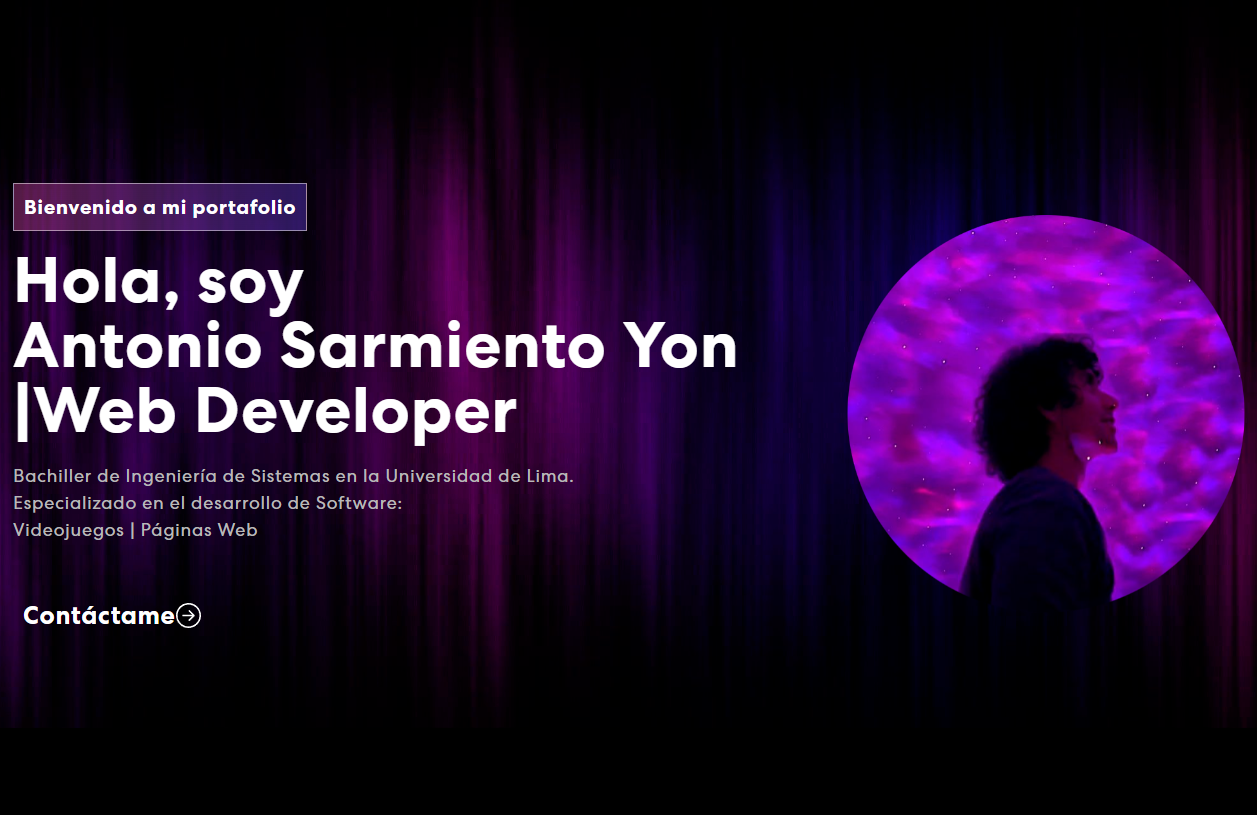
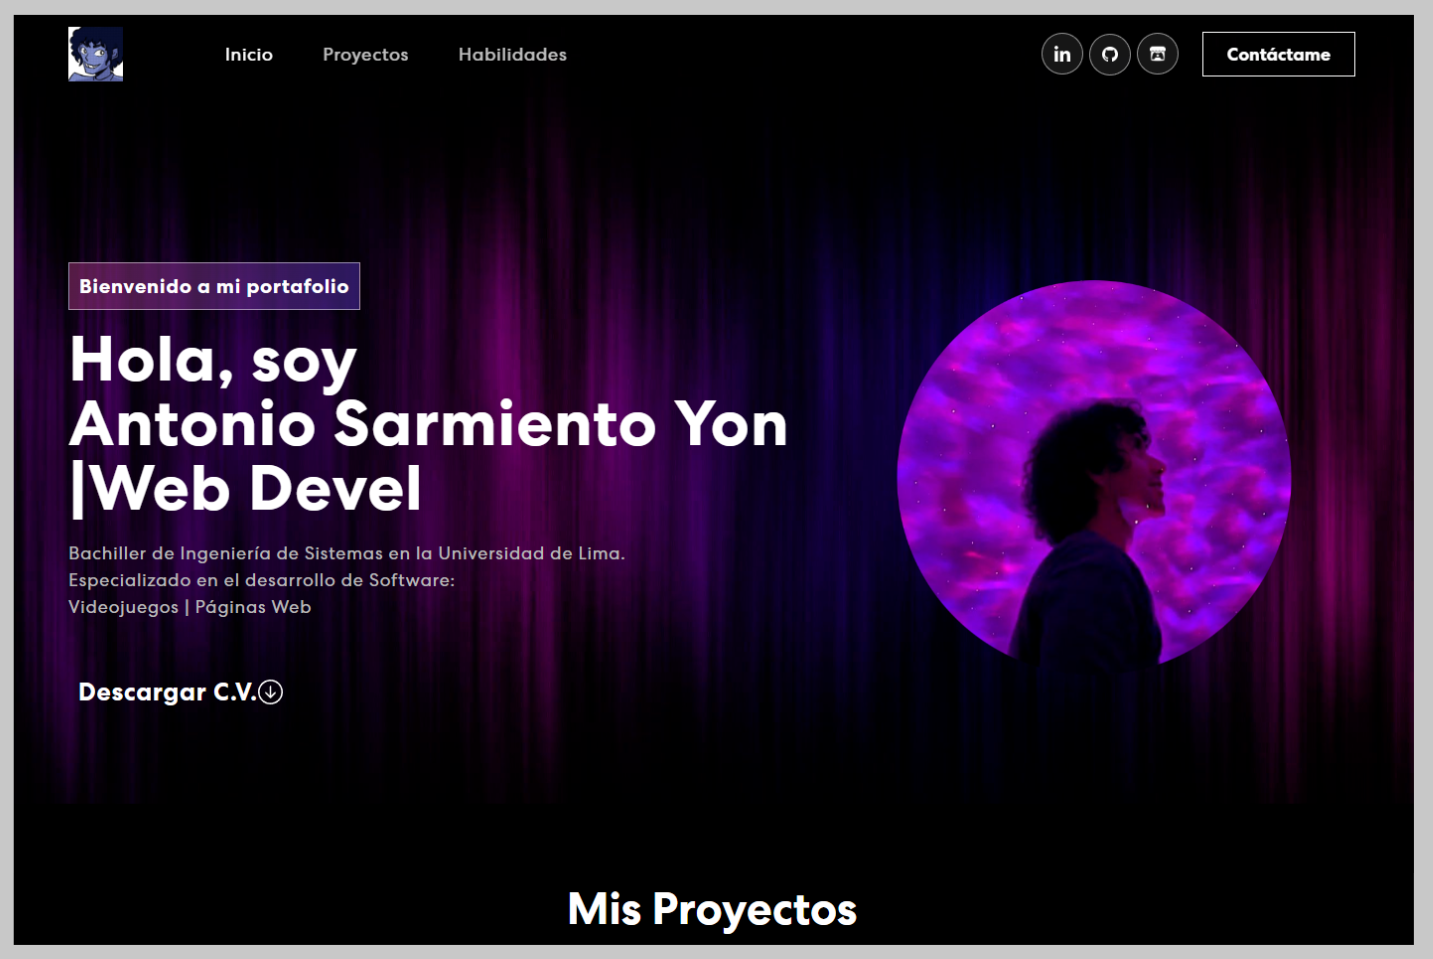
Text Size fixed

diff --git a/asy-gamedev-portfolio/src/components/Skills.js b/asy-gamedev-portfolio/src/components/Skills.js
@@ -59,13 +59,13 @@ export const Skills = () =>{
                                 <h5>C++</h5>
                             </div>
                             <div className="item">
-                                <img src={meter70} alt="ImageMeter"/>
+                                <img src={meter75} alt="ImageMeter"/>
                                 <h5>UNREAL ENGINE</h5>
                             </div>
                         </Carousel>
                         <p>
                             Si bien me especializo en programación, también me he desempeñado en otras áreas dentro del desarrollo de juegos. <br/>
-                            A continuación, comparto mi capacidad de trabajo en distintos roles según mi experiencia previa.
+                            A continuación, comparto mi nivel de habilidad en distintos roles según mi experiencia previa.
                         </p>
                         <Carousel responsive={responsive} infinite={true} className="skill-slider">
                             <div className="item">
@@ -73,19 +73,19 @@ export const Skills = () =>{
                                 <h5>Narrativa</h5>
                             </div>
                             <div className="item">
-                                <img src={meter65} alt="ImageMeter"/>
+                                <img src={meter80} alt="ImageMeter"/>
                                 <h5>Game Designer </h5>
                             </div>
                             <div className="item">
                                 <img src={meter70} alt="ImageMeter"/>
-                                <h5>Level Designer</h5>
+                                <h5>UI/UX Designer</h5>
                             </div>
                             <div className="item">
-                                <img src={meter60} alt="ImageMeter"/>
+                                <img src={meter65} alt="ImageMeter"/>
                                 <h5>Artista 2D</h5>
                             </div>
                             <div className="item">
-                                <img src={meter60} alt="ImageMeter"/>
+                                <img src={meter65} alt="ImageMeter"/>
                                 <h5>Modelador 3D</h5>
                             </div>
                             

diff --git a/asy-gamedev-portfolio/src/components/Banner.js b/asy-gamedev-portfolio/src/components/Banner.js
@@ -52,7 +52,7 @@ export const Banner = () => {
                         <span className='tagline'>Bienvenido a mi portafolio</span>
                         <h1>Hola, soy <br/>{`Antonio Sarmiento Yon`}<br/>|<span className='wrap'>{text}</span></h1>
                         <p>Bachiller de Ingeniería de Sistemas en la Universidad de Lima. <br/> Especializado en el desarrollo de Software:<br/>Videojuegos | Páginas Web</p>
-                        <button><a href={MyCV} download="CV_AntonioSarmientoYon">Descargar CV </a><ArrowDownCircle size={25}/></button>
+                        <button><a href={MyCV} download="CV_AntonioSarmientoYon">Descargar C.V. </a><ArrowDownCircle size={25}/></button>
                     </Col>
                     <Col xs={12} md={6} xl={5}>
                         <img src={headerImg} alt="Headder Img" />

diff --git a/asy-gamedev-portfolio/src/App.css b/asy-gamedev-portfolio/src/App.css
@@ -374,12 +374,12 @@ nav.navbar .navbar-toggler[aria-expanded="true"] .navbar-toggler-icon {
 }
 .project p {
   color: #B8B8B8;
-  font-size: 18px;
+  font-size: 16px;
   letter-spacing: 0.8px;
   line-height: 1.5em;
   margin: 14px auto 30px auto;
   text-align: center;
-  width: 56%;
+  width: 90%;
 }
 .project .nav.nav-pills {
   width: 72%;
@@ -471,7 +471,7 @@ nav.navbar .navbar-toggler[aria-expanded="true"] .navbar-toggler-icon {
   opacity: 1;
 }
 .proj-txtx h4 {
-  font-size: 30px;
+  font-size: 22px;
   font-weight: 700;
   letter-spacing: 0.8px;
   line-height: 1.1em;

diff --git a/asy-gamedev-portfolio/src/components/ProjectCard.js b/asy-gamedev-portfolio/src/components/ProjectCard.js
@@ -9,7 +9,7 @@ export const ProjectCard = ({title, description, imgUrl, pageUrl, engine}) => {
                     <h4>{title}</h4>
                     <p>{description}</p>
                     <h5>{engine}</h5>
-                    <Button variant="warning" href={pageUrl} target='_blank'><h7>Visitar sitio</h7></Button>
+                    <Button variant="warning" href={pageUrl} target='_blank'><h7>Visit site</h7></Button>
                 </div>
             </div>
         </Col>
